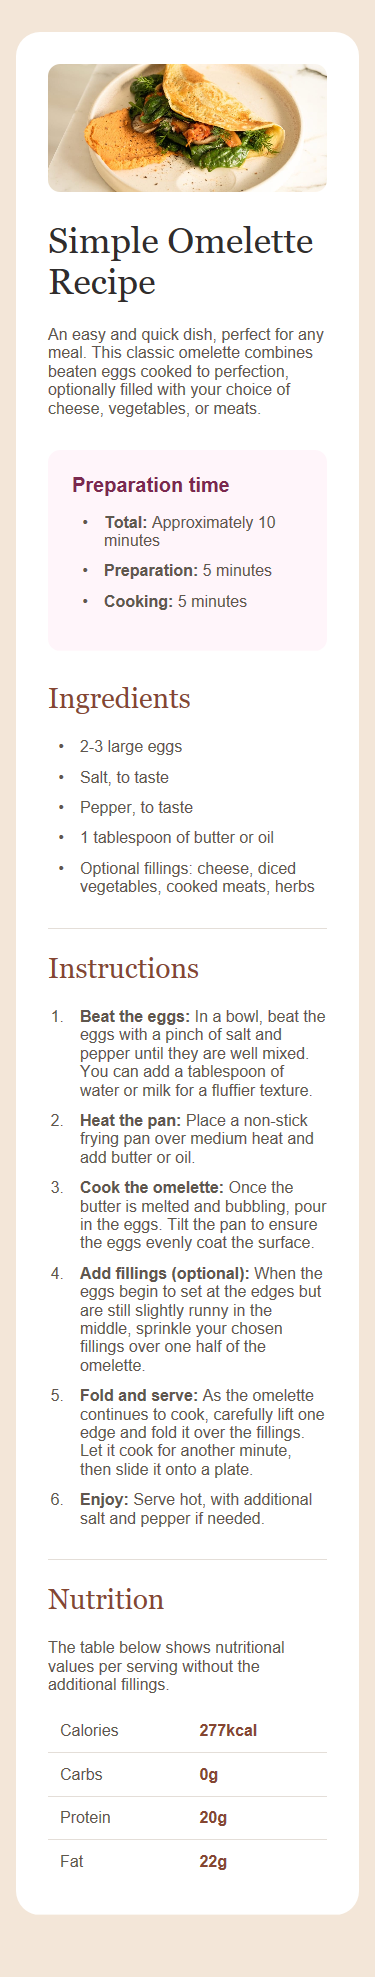
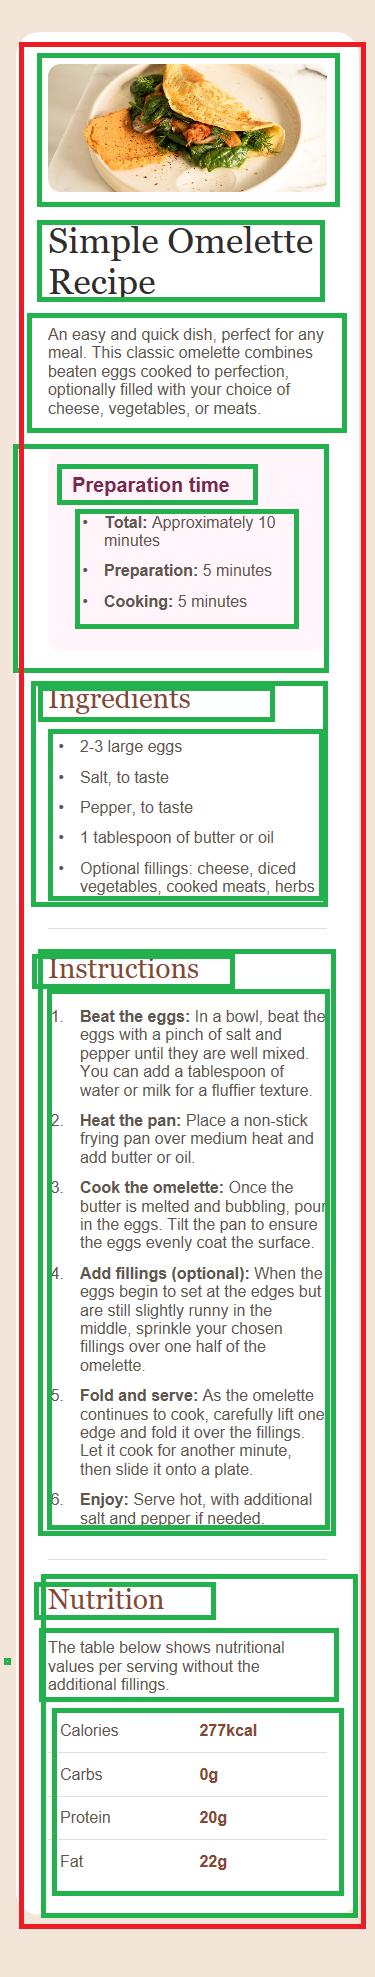
Refactor HTML structure and enhance CSS styles for recipe page layout

Changed region(s): [[0.0293, 0.0, 0.9973, 0.9874]]

diff --git a/index.html b/index.html
@@ -1,63 +1,85 @@
 <!DOCTYPE html>
 <html lang="en">
+
 <head>
   <meta charset="UTF-8">
   <meta name="viewport" content="width=device-width, initial-scale=1.0">
   <title>Receta de tortilla</title>
   <link rel="stylesheet" href="styles.css">
 </head>
+
 <body>
-Simple Omelette Recipe
-
-  An easy and quick dish, perfect for any meal. This classic omelette combines beaten eggs cooked 
-  to perfection, optionally filled with your choice of cheese, vegetables, or meats.
-
-  Preparation time
-
-  Total: Approximately 10 minutes
-  Preparation: 5 minutes
-  Cooking: 5 minutes
-
-  Ingredients
-
-  2-3 large eggs
-  Salt, to taste
-  Pepper, to taste
-  1 tablespoon of butter or oil
-  Optional fillings: cheese, diced vegetables, cooked meats, herbs
-
-  Instructions
-
-  Beat the eggs: In a bowl, beat the eggs with a pinch of salt and pepper until they are well mixed. 
-  You can add a tablespoon of water or milk for a fluffier texture.
-
-  Heat the pan: Place a non-stick frying pan over medium heat and add butter or oil.
-
-  Cook the omelette: Once the butter is melted and bubbling, pour in the eggs. Tilt the pan to ensure 
-  the eggs evenly coat the surface.
-
-  Add fillings (optional): When the eggs begin to set at the edges but are still slightly runny in the 
-  middle, sprinkle your chosen fillings over one half of the omelette.
-
-  Fold and serve: As the omelette continues to cook, carefully lift one edge and fold it over the 
-  fillings. Let it cook for another minute, then slide it onto a plate.
-
-  Enjoy: Serve hot, with additional salt and pepper if needed.
-
-  Nutrition
-
-  The table below shows nutritional values per serving without the additional fillings.
-
-  Calories
-  277kcal
-
-  Carbs
-  0g
-
-  Protein
-  20g
-
-  Fat
-  22g
+  
+  <main class="receta">
+    <img class="foto" src="assets/images/image-omelette.jpeg" alt="Omelette filled with vegetables and herbs">
+    <h1>Simple Omelette Recipe</h1>
+    <p>
+      An easy and quick dish, perfect for any meal. This classic omelette combines beaten eggs cooked
+      to perfection, optionally filled with your choice of cheese, vegetables, or meats.
+    </p>
+    <section class="preparacion">
+      <h2 class="titulo-preparacion">Preparation time</h2>
+      <ul>
+        <li><b>Total:</b> Approximately 10 minutes</li>
+        <!-- Podríamos usar el elemento span con una clase, para darle el estilo que queramos, y no depender de los estilos que aplica el tag b. -->
+        <li><span class="concepto">Preparation:</span> 5 minutes</li>
+        <li><b>Cooking:</b> 5 minutes</li>
+      </ul>
+    </section>
+    <section>
+      <h2>Ingredients</h2>
+      <ul>
+        <li>2-3 large eggs</li>
+        <li>Salt, to taste</li>
+        <li>Pepper, to taste</li>
+        <li>1 tablespoon of butter or oil</li>
+        <li>Optional fillings: cheese, diced vegetables, cooked meats, herbs</li>
+      </ul>
+    </section>
+    <section>
+      <h2>Instructions</h2>
+      <ol>
+        <li>Beat the eggs: In a bowl, beat the eggs with a pinch of salt and pepper until they are well mixed.</li>
+        You can add a tablespoon of water or milk for a fluffier texture.
+        <li>Heat the pan: Place a non-stick frying pan over medium heat and add butter or oil.</li>
+        <li>
+          Cook the omelette: Once the butter is melted and bubbling, pour in the eggs. Tilt the pan to ensure
+          the eggs evenly coat the surface.
+        </li>
+        <li>
+          Add fillings (optional): When the eggs begin to set at the edges but are still slightly runny in the
+          middle, sprinkle your chosen fillings over one half of the omelette.
+        </li>
+        <li>
+          Fold and serve: As the omelette continues to cook, carefully lift one edge and fold it over the
+          fillings. Let it cook for another minute, then slide it onto a plate.
+        </li>
+        <li>Enjoy: Serve hot, with additional salt and pepper if needed.</li>
+      </ol>
+    </section>
+    <section>
+      <h2>Nutrition</h2>
+      <p>The table below shows nutritional values per serving without the additional fillings.</p>
+      <table>
+        <tr>
+          <th>Calories</th>
+          <td>277kcal</td>
+        </tr>
+        <tr>
+          <th>Carbs</th>
+          <td>0g</td>
+        </tr>
+        <tr>
+          <th>Protein</th>
+          <td>20g</td>
+        </tr>
+        <tr>
+          <th>Fat</th>
+          <td>22g</td>
+        </tr>
+      </table>
+    </section>
+  </main>
 </body>
+
 </html>

diff --git a/styles.css b/styles.css
@@ -2,4 +2,58 @@
   box-sizing: border-box;
 }
 
+
 /* Escribe aquí tus reglas CSS. */
+body {
+  font-family: Arial, sans-serif;
+  background-color: #f3e6d8;
+  color: #5f574e;
+}
+
+/* Selector combinado. Permite aplicar los mismos estilos a h1 y a h2. A los dos selectores que pongas a cada lado de la coma */
+h1, h2 {
+  font-family: Georgia, serif;
+  font-weight: normal;
+}
+
+/* Podemos definir las propiedes CSS para un selector en diferentes partes de nuestro código */
+h1 {
+  color: #302d2c;
+  font-size: 2.25rem;
+}
+
+li {
+  margin-bottom: 10px;
+}
+
+.preparacion {
+  background-color: #fff5fa;
+  padding: 1.25rem;
+  border-radius: 16px;
+}
+
+.titulo-preparacion {
+  color: #7b284f;
+  font-weight: bold;
+  font-family: Arial, sans-serif;
+  font-size: 1.25rem;
+}
+
+
+.foto {
+  width: 100%; /* Ocupa tanto como su contenedor padre  */
+  border-radius: 16px;
+}
+
+.receta {
+  background-color: white;
+  padding: 1.5rem; /* 1rem son 16px en estos momentos, porque el usuario tiene el tamaño de la letra del navegador a 16 px*/
+  border-radius: 16px;
+}
+
+.concepto {
+  font-weight: bold;
+}
+
+
+
